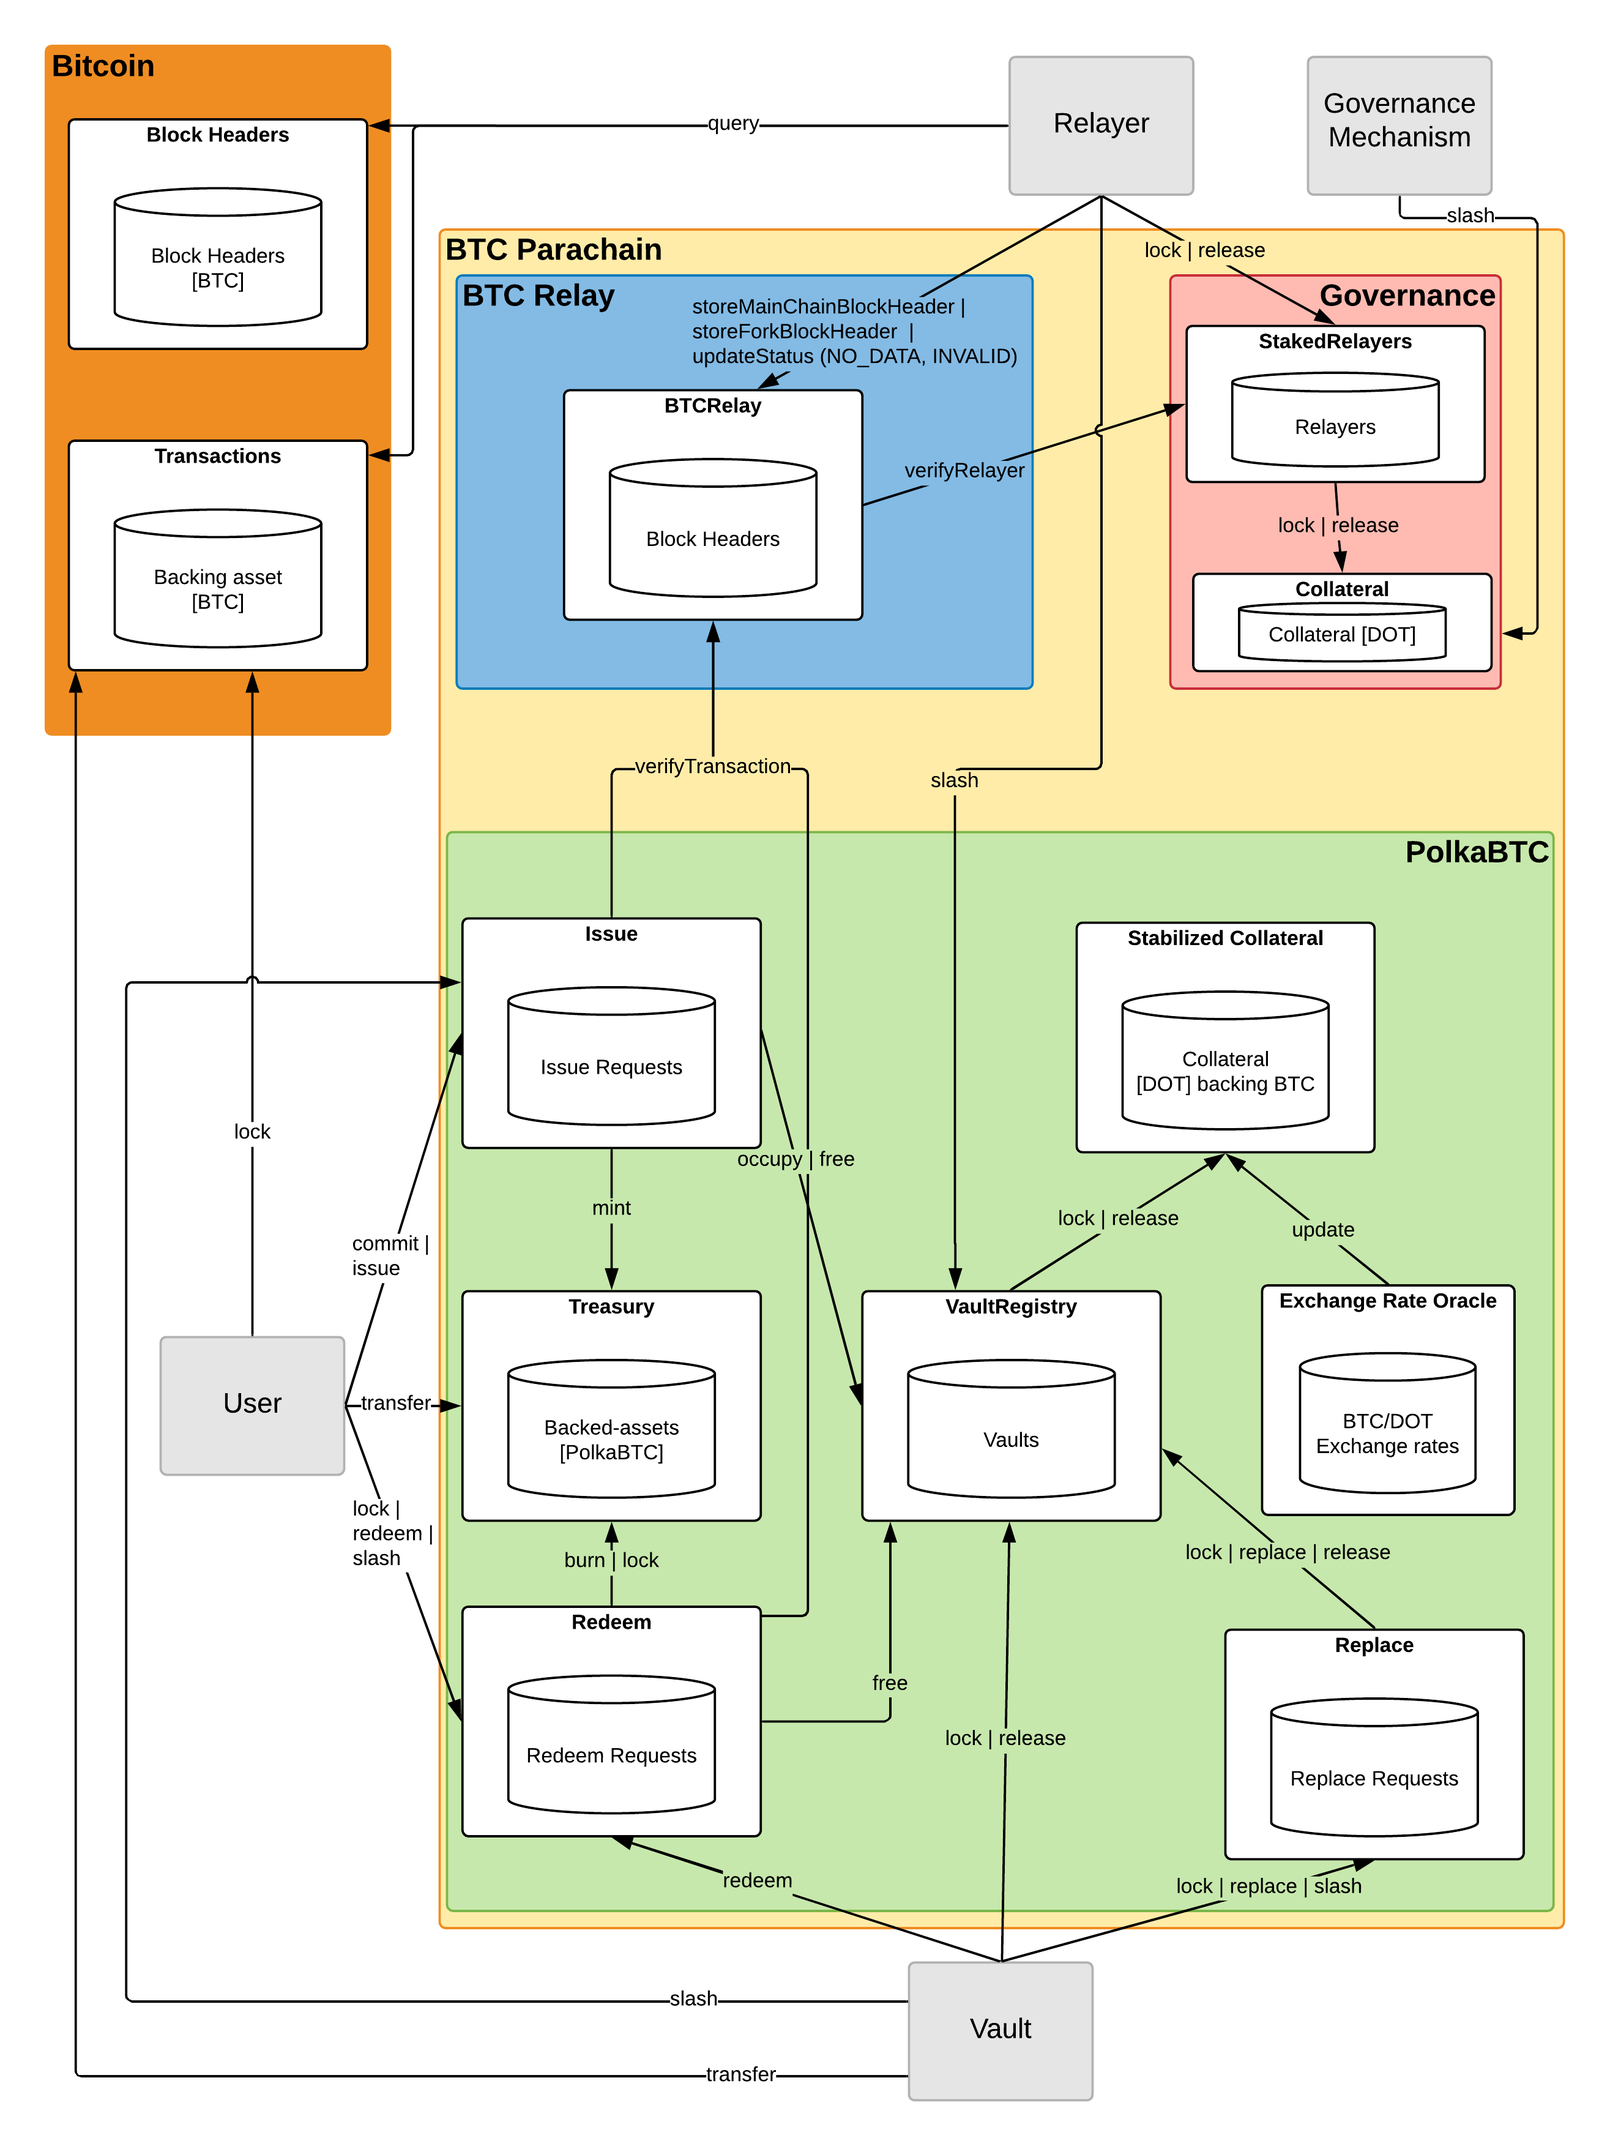
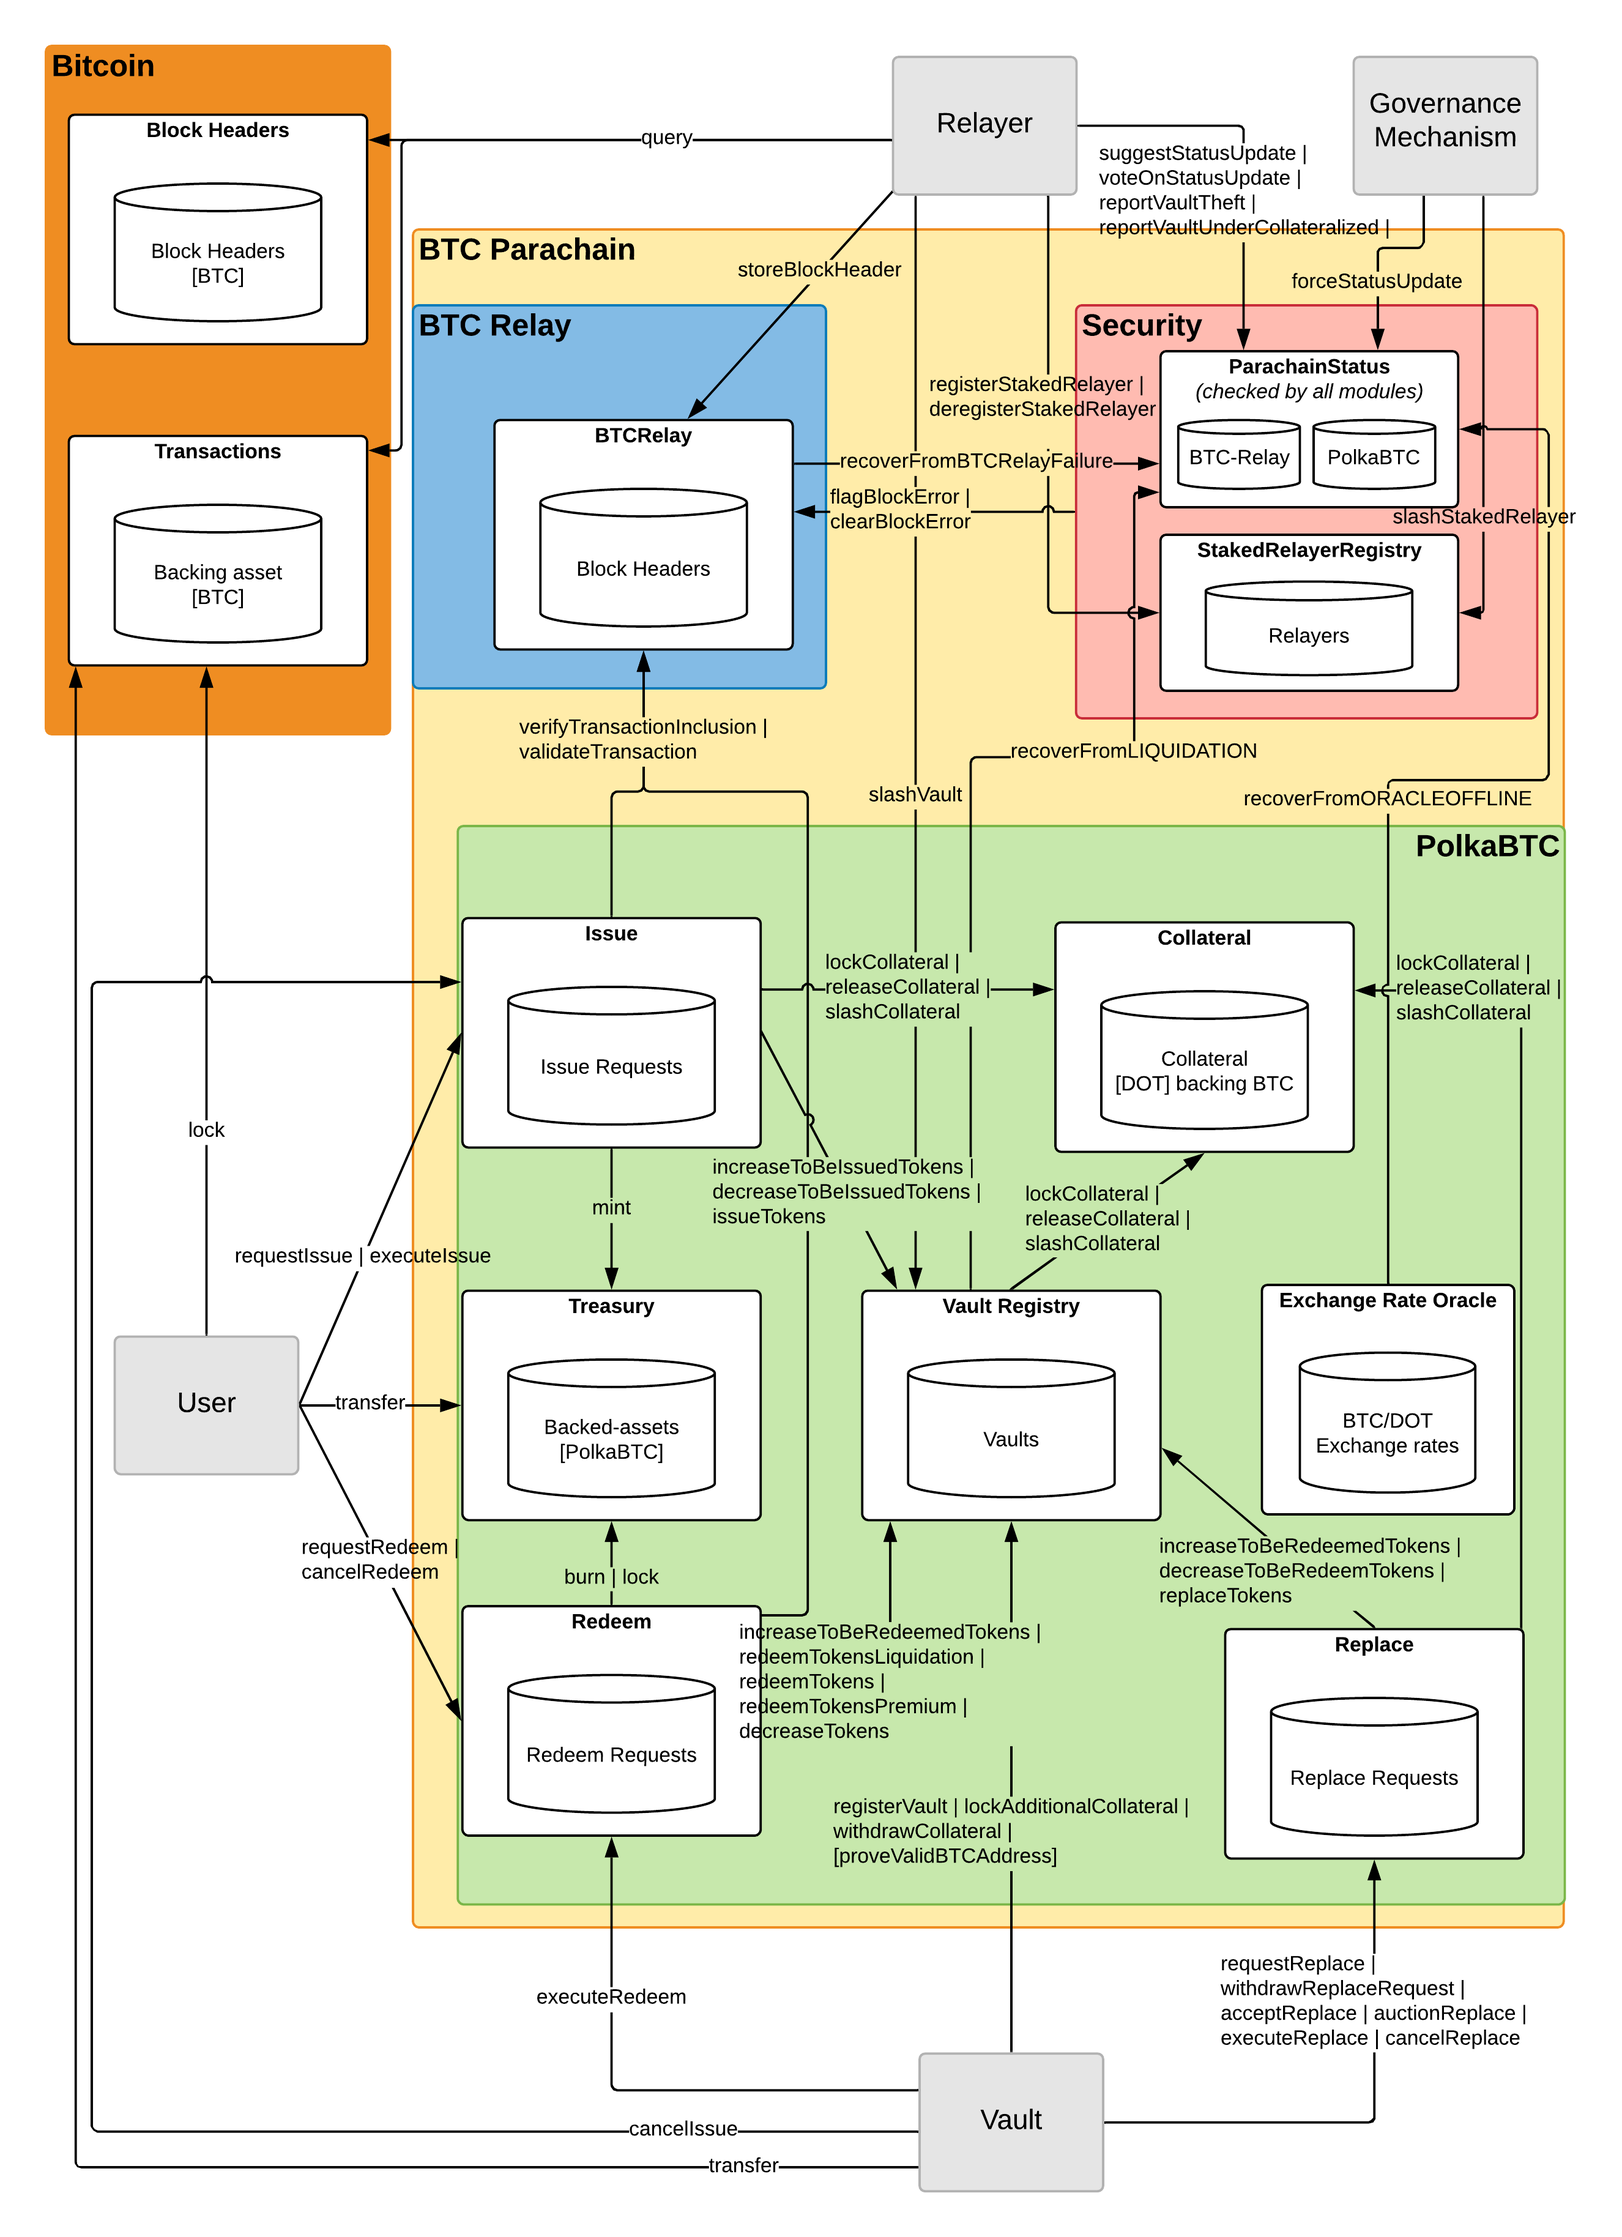
update figures and arch

diff --git a/polkabtc-spec/docs/source/intro/architecture.rst b/polkabtc-spec/docs/source/intro/architecture.rst
@@ -1,34 +1,36 @@
 Architecture
 ============
 
-The PolkaBTC implementation consists of five different actors, seven modules, and is integrated with the BTC-Relay module and the Parachain Governance mechanism.
+PolkaBTC consists of four different actors and eight modules. The component further uses two additional modules, the BTC-Relay component and the Parachain Governance mechanism.
 
 Actors
 ~~~~~~
 
-There are four main participant roles in the system. A detailed overview of all components and actors, as well as interactions between them, is provided in the `Figure </intro/architecture.html#id5>`_ below.
+There are four main participant roles in the system. A high-level overview of all modules and actors, as well as interactions between them, is provided in :numref:`high-level` below.
 
-- **Vaults**: Collateralized intermediaries on backing blockchain (Bitcoin), which provide collareral in DOT on the BTC Parachain and receive and hold BTC from users who wish to create PolkaBTC tokens. When a user destroys PolkaBTC tokens, a Vault releases the corresponding amount of BTC to the user's BTC address. Vaults interact with the following components: *VaultRegistry*, *Redeem*, *Replace*
-- **Users**: Users interacting with the BTC Parachain in order to create, use (trade/transfer/...), and redeem Bitcoin-backed PolkaBTC tokens. Since the different protocol phases can be executed by different users, we íntroduce the following *sub-roles*:
+- **Vaults**: Vaults are collateralized intermediaries that are active on both the backing blockchain (Bitcoin) and the issuing blockchain to provide collateral in DOT. They receive and hold BTC from users who wish to create PolkaBTC tokens. When a user destroys PolkaBTC tokens, a Vault releases the corresponding amount of BTC to the user's BTC address. Vaults interact with the following modules directly: :ref:`vault-registry`, :ref:`redeem-protocol`, and :ref:`replace-protocol`.
+- **Users**: Users interact with the BTC Parachain to create, use (trade/transfer/...), and redeem Bitcoin-backed PolkaBTC tokens. Since the different protocol phases can be executed by different users, we introduce the following *sub-roles*:
 
-  - **Requester**: A user that locks BTC with a Vault on Bitcoin and issues PolkaBTC on the BTC Parachain. Interacts with the *Issue* component.
-  - **Sender**: A user that sends PolkaBTC to a Receiver on the BTC Parachain. Interacts with the *Treasury* component. 
-  - **Receiver**: A user that receives PolkaBTC on the BTC Parachain. Interacts with the *Treasury* component. 
-  - **Redeemer**: A user that destroys PolkaBTC on the BTC Parachain to receive the corresponding amount of BTC on the Bitcoin blockchain from a Vault. Interacts with the *Redeem* component. 
-- **Staked Relayers**:  Collateralized intermediaries which run Bitcoin full nodes and (i) monitor validity and availability of transactional data for Bitcoin blocks submitted to BTC-Relay, (ii) monitor that Vaults do not move locked BTC on Bitcoin without prior authorization by the BTC Parachain (i.e., through one of the Issue, Redeem or Replace protocols). In case either of the above errors was detected, Staked Relayers report this to the BTC Parachain. Interact with the *BTC-Relay*, *StakedRelayers*, and *VaultRegistry* components. 
+  - **Requester**: A user that locks BTC with a Vault on Bitcoin and issues PolkaBTC on the BTC Parachain. Interacts with the :ref:`issue-protocol` module.
+  - **Sender** and **Receiver**: A user (Sender) that sends PolkaBTC to another user (Receiver) on the BTC Parachain. Interacts with the :ref:`treasury-module` module. 
+  - **Redeemer**: A user that destroys PolkaBTC on the BTC Parachain to receive the corresponding amount of BTC on the Bitcoin blockchain from a Vault. Interacts with the :ref:`redeem-protocol` module. 
+
+- **Staked Relayers**:  Collateralized intermediaries which run Bitcoin full nodes and (i) monitor validity and availability of transactional data for Bitcoin blocks submitted to BTC-Relay, (ii) monitor that Vaults do not move locked BTC on Bitcoin without prior authorization by the BTC Parachain (i.e., through one of the Issue, Redeem or Replace protocols). In case either of the above errors was detected, Staked Relayers report this to the BTC Parachain. Interact with the :ref:`btc-relay`, :ref:`security`, and :ref:`Vault-registry` modules. 
 
 .. todo:: The exact composition of Staked Relayers (static vs dynamic committee) and the internal agreement mechanism needs to be defined. Do Staked Relayers run a BFT protocol to create a threshold signature when reporting an error / updating the state of BTC-Relay? Who can join this committee?
 
-- **Governance Mechanism**: The Parachain Governance Mechanism monitors the correct operation of the BTC Parachain, as well as the correct behaviour of Staked Relayers (and other participants if necessary). Interacts with the *RelayerCollateral* component when Staked Relayers misbehave and can manually interfere with the operation and parameterization of all components of the BTC Parachain.
+- **Governance Mechanism**: The Parachain Governance Mechanism monitors the correct operation of the BTC Parachain, as well as the correct behaviour of Staked Relayers (and other participants if necessary). Interacts with the :ref:`security` module when Staked Relayers misbehave and can manually interfere with the operation and parameterization of all components of the BTC Parachain.
 
 .. note:: The exact composition of the Governance Mechanism is to be defined by Polkadot.  
 
 Modules
 ~~~~~~~
 
-The seven modules in PolkaBTC interact with each other, but all have distinct logical functionalities. The figure below shows them.
+The eight modules in PolkaBTC plus the BTC-Relay and Governance Mechanism interact with each other, but all have distinct logical functionalities. The figure below shows them.
 
 The specification clearly separates these modules to ensure that each module can be implemented, tested, and verified in isolation. The specification follows the principle of abstracting the internal implementation away and providing a clear interface. This should allow optimisation and improvements of a module with minimal impact on other modules.
+
+.. _high-level:
 
 .. figure:: ../figures/PolkaBTC-Architecture.png
     :alt: architecture diagram
@@ -36,11 +38,11 @@ The specification clearly separates these modules to ensure that each module can
     High level overview of the BTC Parachain. PolkaBTC consists of seven modules. The Oracle module stores the exchange rates based on the input of centralized and decentralized exchanges. The Treasury module maintains the ownership of PolkaBTC, the VaultRegistry module stores information about the current Vaults in the system, and the Issue, Redeem and Replace modules expose funcitons and maintain data related to the respective sub protocols. The StabilizedCollateral modules handles Vault collateralization, stabilization against exchange rate fluctuations and automatic liquidation. BTC-Relay tracks the Bitcoin main chain and verifies transaction inclusion. The Parachain Governance maintains correct operation of the BTC Parachain and intervenes / halts operation if necessary. 
 
 
-ExchangeRateOracle
-------
+Exchange Rate Oracle
+--------------------
 
 The Oracle module maintains the ``ExchangeRate`` value between the asset that is used to collateralize Vaults (DOT) and the to-be-issued asset (BTC).
-In the proof-of-concept the Oracle is operated by a trusted third party to feed the current exchange rates into the system.
+In the proof-of-concept, the Oracle is operated by a trusted third party to feed the current exchange rates into the system.
 
 .. note:: The exchange rate oracle implementation is not part of this specification. PolkaBTC simply expects a continuous input of exchange rate data and assumes the oracle operates correctly.
 .. .. todo:: Check with Web3 on how they plan to implement this. Probably, Governance Mechanism will provide this service, or intervene in case of failures.
@@ -49,42 +51,62 @@ In the proof-of-concept the Oracle is operated by a trusted third party to feed 
 Treasury
 --------
 
-The Treasury module maintains the ownership and balance of PolkaBTC token holders. It allows respective owners of PolkaBTC to send their tokens to other entities via the :ref:`Transfer protocol <transfer-protocol>` and to query their balance.
+The Treasury module maintains the ownership and balance of PolkaBTC token holders. It allows respective owners of PolkaBTC to send their tokens to other entities  and to query their balance.
 Further, it tracks the total supply of tokens.
 
-VaultRegistry
--------------
+Vault Registry
+--------------
 
-The VaultRegistry module manages the Vaults in the system, exposing functionality for:
-
-* Managing the list of active Vaults in the system and the necessary data (e.g. BTC addresses) to execute the Issue, Redeem and Replace protocols.
+The VaultRegistry module manages the Vaults in the system.It allows Managing the list of active Vaults in the system and the necessary data (e.g. BTC addresses) to execute the Issue, Redeem, and Replace protocols.
 
 This module also handles the collateralization rates of Vaults and reacts to exchange rate fluctuations.
-Specifically, it 
+Specifically, it:
 
 * stores how much collateral each Vault provided and how much of that collateral is allocated to PolkaBTC.
-* tracks the collateralization rate of each Vault and triggeres measures in case the rate declines, e.g. due to exchange rate fluctations.
-* triggeres automatic liquidation if a Vault falls below the minimum collateralization rate.
+* tracks the collateralization rate of each Vault and triggers measures in case the rate declines, e.g. due to exchange rate fluctuations.
+* triggers, as a last resort, automatic liquidation if a Vault falls below the minimum collateralization rate.
+
+Collateral
+----------
+
+The Collateral module is the central storage for any collateral that is collected in any other module.
+It is allows for three simple operations: locking collateral by a party, releasing collateral back to the original party that locked this collateral, and last, slashing collateral where the collateral is relocated to a party other than the one that locked the collateral.
 
 Issue
 -----
 
-The Issue model handles the issuing process for PolkaBTC tokens. It tracks issue requests by users, handles the collareral provided by users as griefing protection and exposes functionality for users to prove correct locking on BTC with Vaults (interacting with the endpoints in BTC-Relay). 
+The Issue module handles the issuing process for PolkaBTC tokens. It tracks issue requests by users, handles the collateral provided by users as griefing protection and exposes functionality for users to prove correct locking on BTC with Vaults (interacting with the endpoints in BTC-Relay). 
 
 Redeem
 ------
 
-The Redeem model handles the redeem process for PolkaBTC tokens. It tracks redeem requests by users, exposes functionality for Vaults to prove correct release of BTC to users (interacting with the endpoints in BTC-Relay), and handles the Vault's collateral in case of success (free) and failure (slash). 
+The Redeem module handles the redeem process for PolkaBTC tokens. It tracks redeem requests by users, exposes functionality for Vaults to prove correct release of BTC to users (interacting with the endpoints in BTC-Relay), and handles the Vault's collateral in case of success (free) and failure (slash). 
 
 
 Replace
 -------
-The Replce model handles the replace process Vaults. 
-It tracks replce requests by existing Vaults, exposes functionality for to-be-replaced Vaults to prove correct transfer of locked BTC to new Vault candidates (interacting with the endpoints in BTC-Relay), and handles the collateral provided by participating Vaults as griefing protection.
+The Replace module handles the replace process for Vaults. 
+It tracks replace requests by existing Vaults, exposes functionality for to-be-replaced Vaults to prove correct transfer of locked BTC to new Vault candidates (interacting with the endpoints in BTC-Relay), and handles the collateral provided by participating Vaults as griefing protection.
 
 
+Security
+--------
 
+The Security module handles the Staked Relayers. Staked Relayers can register and vote, where applicable, on the status of the BTC Parachain. They can also report theft of BTC by vaults.
 
+Governance Mechanism
+--------------------
+
+The Governance Mechanism handles correct operation of the BTC Parachain.
+
+.. note:: The Governance Mechanism is not part of this specification. The BTC Parachain simply expects continous operation of the BTC Parachain.
+
+Interactions
+~~~~~~~~~~~~
+
+We provide a detailed overview of the function calls between the different modules in :numref:`fig-interactions`.
+
+.. _fig-interactions:
 .. figure:: ../figures/polkaBTC-detailed-architecture.png
     :alt: detailed architecture diagram
 
